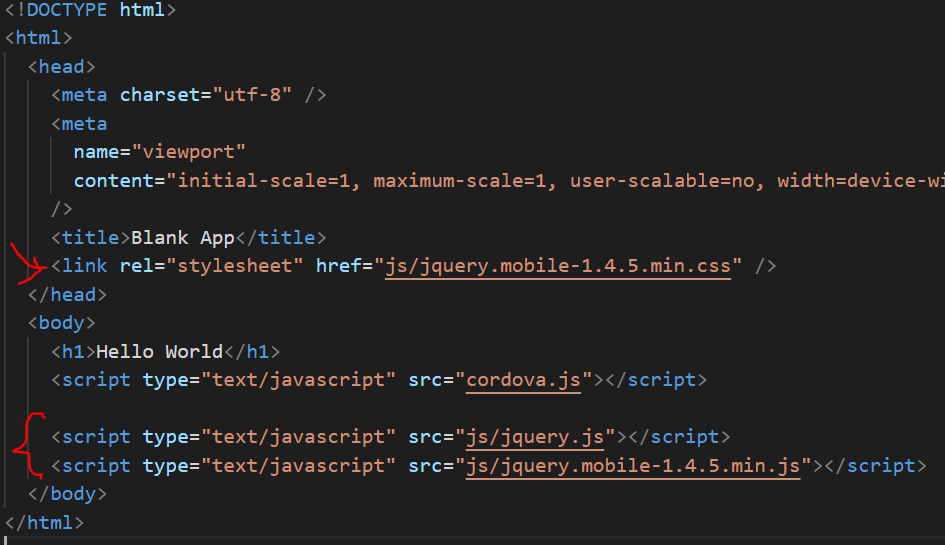
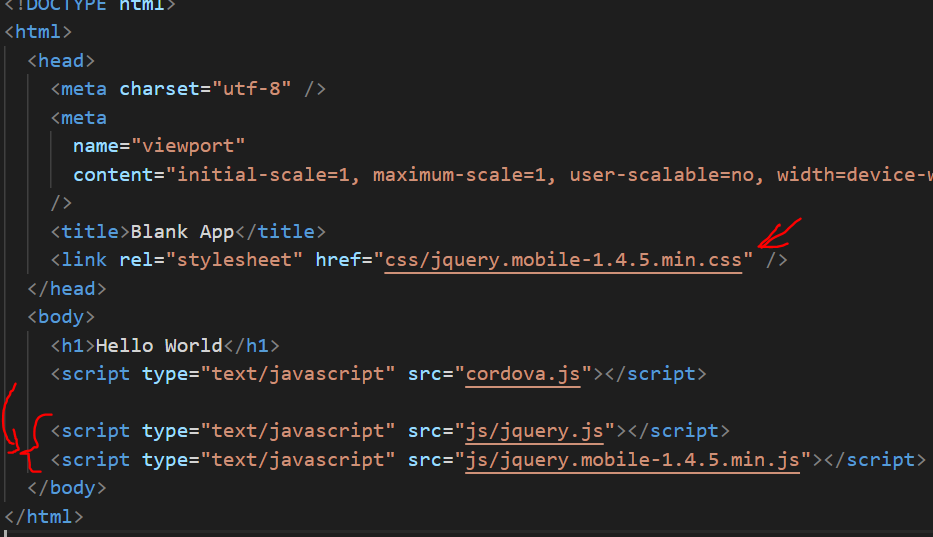
'update'

diff --git a/platforms/browser/www/3.html b/platforms/browser/www/3.html
@@ -1,48 +1,16 @@
 <div role="main" class="ui-content">
-  <h4>3. Creating test buttons</h4>
+  <h4>3. Creating a basic page</h4>
   <p>
-    Lorem ipsum dolor sit amet, consectetur adipiscing elit. Cras tincidunt sem
-    dolor, at consectetur arcu rutrum vel. Interdum et malesuada fames ac ante
-    ipsum primis in faucibus. Suspendisse accumsan gravida ligula et imperdiet.
-    Aliquam sit amet arcu sit amet leo mollis laoreet. Cras faucibus nunc eget
-    mattis ullamcorper. In ultrices sodales sagittis. Sed finibus ex eu rutrum
-    suscipit. Sed quis arcu id libero consectetur ullamcorper. Praesent eu leo
-    eu sapien suscipit tincidunt ac non sem. Suspendisse ut risus eget est
-    feugiat bibendum. Vestibulum pellentesque neque non enim posuere euismod.
-    Morbi facilisis felis lobortis eros feugiat, vel ullamcorper diam maximus.
-    Maecenas mattis condimentum metus sit amet maximus. Ut pellentesque tempus
-    congue. Aenean eu odio gravida, maximus dolor vel, auctor ipsum. Proin non
-    egestas magna. Etiam consectetur lorem vel arcu elementum ornare. Vestibulum
-    volutpat suscipit blandit. Phasellus ornare sem orci, sit amet hendrerit
-    nisl accumsan nec. Interdum et malesuada fames ac ante ipsum primis in
-    faucibus. In ut felis et nisl pellentesque pretium non vitae enim. In porta,
-    magna ac tincidunt dapibus, tellus quam malesuada eros, sit amet rutrum
-    turpis nisl in nisi. Etiam sit amet lacus in felis volutpat cursus. Proin
-    blandit lacinia enim nec consequat. Pellentesque vitae est viverra, suscipit
-    ex sed, lobortis felis. Maecenas et tortor ut est dapibus feugiat. In eu
-    sodales urna. Vivamus vitae convallis dolor, id malesuada nunc. Etiam a
-    tincidunt augue, ut aliquet risus. Phasellus quis ligula sed orci semper
-    bibendum. Proin ultricies enim vel bibendum dignissim. In fringilla dui quis
-    cursus faucibus. Integer semper pharetra mi. Vestibulum rutrum cursus
-    sagittis. Cras accumsan est at felis consectetur, id feugiat elit accumsan.
-    Suspendisse faucibus velit quis mi suscipit commodo. Nullam in purus cursus
-    orci viverra vulputate. Ut maximus tellus nisi, interdum dignissim orci
-    tristique in. Sed eu aliquam velit. Quisque id tincidunt ipsum, quis dictum
-    lorem. Donec venenatis suscipit velit, in cursus tortor suscipit sed. Nunc
-    luctus, leo eu egestas condimentum, sem sapien placerat nibh, non elementum
-    massa nisl ac ex. Fusce est eros, dapibus sed tellus a, bibendum tincidunt
-    nisl. In imperdiet ac nulla nec pellentesque. Sed quis est urna. Nullam
-    tempor neque id purus egestas sollicitudin. Phasellus dignissim metus enim,
-    a volutpat lacus commodo eu. Morbi id congue nisi, vel bibendum felis. Donec
-    at eros vel nisl commodo rutrum. Quisque viverra commodo cursus. Nunc
-    consequat, orci et dignissim pellentesque, dolor ligula porttitor arcu, id
-    ornare ex mi eget lorem. Nullam sit amet turpis vel odio vulputate semper.
-    Pellentesque ante purus, porttitor ac leo non, semper ultrices tellus.
-    Vestibulum blandit justo quis justo porttitor, sit amet maximus lorem
-    imperdiet. Nulla tristique bibendum orci id vehicula. Proin id justo dictum,
-    fringilla justo eu, vehicula nisl. Nunc vel urna massa. Nullam varius sed
-    urna quis imperdiet. Aliquam vehicula enim ut pretium porttitor. Vestibulum
-    orci nisl, suscipit in tortor nec, porta vestibulum arcu.
+    We will create the basic page structure. The basic structure of a jquery
+    page consists of a container called page. Within the page container there
+    are 3 sections. The header, content and footer. This is what it looks like:
   </p>
+  <p><img src="images/3-1.png" alt="" /></p>
+  <p>And below is the body section of the index.html code:</p>
+  <p><img src="images/3-2.png" alt="" /></p>
+  <p>Next we add 3 buttons in the content section:</p>
+  <p><img src="images/3-3.png" alt="" /></p>
+  <p>And this is what the buttons look like:</p>
+  <p><img src="images/3-4.png" alt="" /></p>
 </div>
 <!-- /content -->

diff --git a/www/3.html b/www/3.html
@@ -1,48 +1,16 @@
 <div role="main" class="ui-content">
-  <h4>3. Creating test buttons</h4>
+  <h4>3. Creating a basic page</h4>
   <p>
-    Lorem ipsum dolor sit amet, consectetur adipiscing elit. Cras tincidunt sem
-    dolor, at consectetur arcu rutrum vel. Interdum et malesuada fames ac ante
-    ipsum primis in faucibus. Suspendisse accumsan gravida ligula et imperdiet.
-    Aliquam sit amet arcu sit amet leo mollis laoreet. Cras faucibus nunc eget
-    mattis ullamcorper. In ultrices sodales sagittis. Sed finibus ex eu rutrum
-    suscipit. Sed quis arcu id libero consectetur ullamcorper. Praesent eu leo
-    eu sapien suscipit tincidunt ac non sem. Suspendisse ut risus eget est
-    feugiat bibendum. Vestibulum pellentesque neque non enim posuere euismod.
-    Morbi facilisis felis lobortis eros feugiat, vel ullamcorper diam maximus.
-    Maecenas mattis condimentum metus sit amet maximus. Ut pellentesque tempus
-    congue. Aenean eu odio gravida, maximus dolor vel, auctor ipsum. Proin non
-    egestas magna. Etiam consectetur lorem vel arcu elementum ornare. Vestibulum
-    volutpat suscipit blandit. Phasellus ornare sem orci, sit amet hendrerit
-    nisl accumsan nec. Interdum et malesuada fames ac ante ipsum primis in
-    faucibus. In ut felis et nisl pellentesque pretium non vitae enim. In porta,
-    magna ac tincidunt dapibus, tellus quam malesuada eros, sit amet rutrum
-    turpis nisl in nisi. Etiam sit amet lacus in felis volutpat cursus. Proin
-    blandit lacinia enim nec consequat. Pellentesque vitae est viverra, suscipit
-    ex sed, lobortis felis. Maecenas et tortor ut est dapibus feugiat. In eu
-    sodales urna. Vivamus vitae convallis dolor, id malesuada nunc. Etiam a
-    tincidunt augue, ut aliquet risus. Phasellus quis ligula sed orci semper
-    bibendum. Proin ultricies enim vel bibendum dignissim. In fringilla dui quis
-    cursus faucibus. Integer semper pharetra mi. Vestibulum rutrum cursus
-    sagittis. Cras accumsan est at felis consectetur, id feugiat elit accumsan.
-    Suspendisse faucibus velit quis mi suscipit commodo. Nullam in purus cursus
-    orci viverra vulputate. Ut maximus tellus nisi, interdum dignissim orci
-    tristique in. Sed eu aliquam velit. Quisque id tincidunt ipsum, quis dictum
-    lorem. Donec venenatis suscipit velit, in cursus tortor suscipit sed. Nunc
-    luctus, leo eu egestas condimentum, sem sapien placerat nibh, non elementum
-    massa nisl ac ex. Fusce est eros, dapibus sed tellus a, bibendum tincidunt
-    nisl. In imperdiet ac nulla nec pellentesque. Sed quis est urna. Nullam
-    tempor neque id purus egestas sollicitudin. Phasellus dignissim metus enim,
-    a volutpat lacus commodo eu. Morbi id congue nisi, vel bibendum felis. Donec
-    at eros vel nisl commodo rutrum. Quisque viverra commodo cursus. Nunc
-    consequat, orci et dignissim pellentesque, dolor ligula porttitor arcu, id
-    ornare ex mi eget lorem. Nullam sit amet turpis vel odio vulputate semper.
-    Pellentesque ante purus, porttitor ac leo non, semper ultrices tellus.
-    Vestibulum blandit justo quis justo porttitor, sit amet maximus lorem
-    imperdiet. Nulla tristique bibendum orci id vehicula. Proin id justo dictum,
-    fringilla justo eu, vehicula nisl. Nunc vel urna massa. Nullam varius sed
-    urna quis imperdiet. Aliquam vehicula enim ut pretium porttitor. Vestibulum
-    orci nisl, suscipit in tortor nec, porta vestibulum arcu.
+    We will create the basic page structure. The basic structure of a jquery
+    page consists of a container called page. Within the page container there
+    are 3 sections. The header, content and footer. This is what it looks like:
   </p>
+  <p><img src="images/3-1.png" alt="" /></p>
+  <p>And below is the body section of the index.html code:</p>
+  <p><img src="images/3-2.png" alt="" /></p>
+  <p>Next we add 3 buttons in the content section:</p>
+  <p><img src="images/3-3.png" alt="" /></p>
+  <p>And this is what the buttons look like:</p>
+  <p><img src="images/3-4.png" alt="" /></p>
 </div>
 <!-- /content -->

diff --git a/platforms/browser/www/2.html b/platforms/browser/www/2.html
@@ -10,9 +10,25 @@
   www folder:
   <p><img src="images/2-2.png" alt="" /></p>
   <p>
+    Next create a css folder inside www. And copy the file
+    jquery.mobile-1.4.5.min.css to it. You can get the file from the unzipped
+    folder of jquery mobile. It is located in the root directory:
+  </p>
+  <p><img src="images/2-1-a.png" alt="" /></p>
+  <p>
+    And this is what your project folder looks like after creating the css
+    folder and copying jquery.mobile-1.4.5.min.css into it.
+  </p>
+  <p><img src="images/2-1-b.png" alt="" /></p>
+  <p>
     Next, you need to refer to the libraries in the js folder from within the
     index.html file by adding the following lines indicated in red:
   </p>
   <p><img src="images/2-3.png" alt="" /></p>
+  <p>
+    Next, save the index.html file and refresh your chrome emulator and you will
+    now see a nicely styled message:
+  </p>
+  <p><img src="images/2-4.png" alt="" /></p>
 </div>
 <!-- /content -->

diff --git a/www/2.html b/www/2.html
@@ -10,9 +10,25 @@
   www folder:
   <p><img src="images/2-2.png" alt="" /></p>
   <p>
+    Next create a css folder inside www. And copy the file
+    jquery.mobile-1.4.5.min.css to it. You can get the file from the unzipped
+    folder of jquery mobile. It is located in the root directory:
+  </p>
+  <p><img src="images/2-1-a.png" alt="" /></p>
+  <p>
+    And this is what your project folder looks like after creating the css
+    folder and copying jquery.mobile-1.4.5.min.css into it.
+  </p>
+  <p><img src="images/2-1-b.png" alt="" /></p>
+  <p>
     Next, you need to refer to the libraries in the js folder from within the
     index.html file by adding the following lines indicated in red:
   </p>
   <p><img src="images/2-3.png" alt="" /></p>
+  <p>
+    Next, save the index.html file and refresh your chrome emulator and you will
+    now see a nicely styled message:
+  </p>
+  <p><img src="images/2-4.png" alt="" /></p>
 </div>
 <!-- /content -->

diff --git a/platforms/browser/www/1.html b/platforms/browser/www/1.html
@@ -1,9 +1,11 @@
 <div role="main" class="ui-content">
   <h4>1. Create PhoneGap Project</h4>
   <p>
-    First, if you have not already done so, head over to phonegap.com and
-    download PhoneGap Desktop app. After installing it, run the app and create a
-    new blank project. Create a new folder in C:\ and call it PhoneGapProjects.
+    First, if you have not already done so, download and install node.js from nodejs.org/en/download.
+    PhoneGap Desktop App, which we are going to install next, needs node.js in order to run.
+  </p>
+  <p>
+    Next, head over to phonegap.com and download PhoneGap Desktop app. After installing it, run the app and create a new folder in C:\ and call it PhoneGapProjects.
     You should now have this new folder: C:\PhoneGapProjects
   </p>
   <p><img src="images/1-0.png" alt="" /></p>

diff --git a/www/1.html b/www/1.html
@@ -1,9 +1,11 @@
 <div role="main" class="ui-content">
   <h4>1. Create PhoneGap Project</h4>
   <p>
-    First, if you have not already done so, head over to phonegap.com and
-    download PhoneGap Desktop app. After installing it, run the app and create a
-    new blank project. Create a new folder in C:\ and call it PhoneGapProjects.
+    First, if you have not already done so, download and install node.js from nodejs.org/en/download.
+    PhoneGap Desktop App, which we are going to install next, needs node.js in order to run.
+  </p>
+  <p>
+    Next, head over to phonegap.com and download PhoneGap Desktop app. After installing it, run the app and create a new folder in C:\ and call it PhoneGapProjects.
     You should now have this new folder: C:\PhoneGapProjects
   </p>
   <p><img src="images/1-0.png" alt="" /></p>

diff --git a/platforms/browser/www/home.html b/platforms/browser/www/home.html
@@ -20,11 +20,10 @@
   </ul>
   <ul data-role="listview" data-inset="true">
     <li>
-      <a href="#" onclick="load2Content()">
-        <h2>2. Creating Ad Units</h2>
+      <a href="#" onclick="load3Content()">
+        <h2>3. Creating a basic page</h2>
         <p>
-          Logging into apps.admob.com and creating banner, interstitial and
-          rewarded video ad units
+          Understanding jquery pages structure and creating it.
         </p></a
       >
     </li>

diff --git a/www/home.html b/www/home.html
@@ -20,11 +20,10 @@
   </ul>
   <ul data-role="listview" data-inset="true">
     <li>
-      <a href="#" onclick="load2Content()">
-        <h2>2. Creating Ad Units</h2>
+      <a href="#" onclick="load3Content()">
+        <h2>3. Creating a basic page</h2>
         <p>
-          Logging into apps.admob.com and creating banner, interstitial and
-          rewarded video ad units
+          Understanding jquery pages structure and creating it.
         </p></a
       >
     </li>

diff --git a/platforms/browser/www/panel.html b/platforms/browser/www/panel.html
@@ -21,8 +21,8 @@
       >
     </li>
     <li>
-      <a href="#" onclick="load2Content()" data-rel="close"
-        >2. Create ad units</a
+      <a href="#" onclick="load3Content()" data-rel="close"
+        >3. Creating a basic page</a
       >
     </li>
     <li>

diff --git a/www/panel.html b/www/panel.html
@@ -21,8 +21,8 @@
       >
     </li>
     <li>
-      <a href="#" onclick="load2Content()" data-rel="close"
-        >2. Create ad units</a
+      <a href="#" onclick="load3Content()" data-rel="close"
+        >3. Creating a basic page</a
       >
     </li>
     <li>
